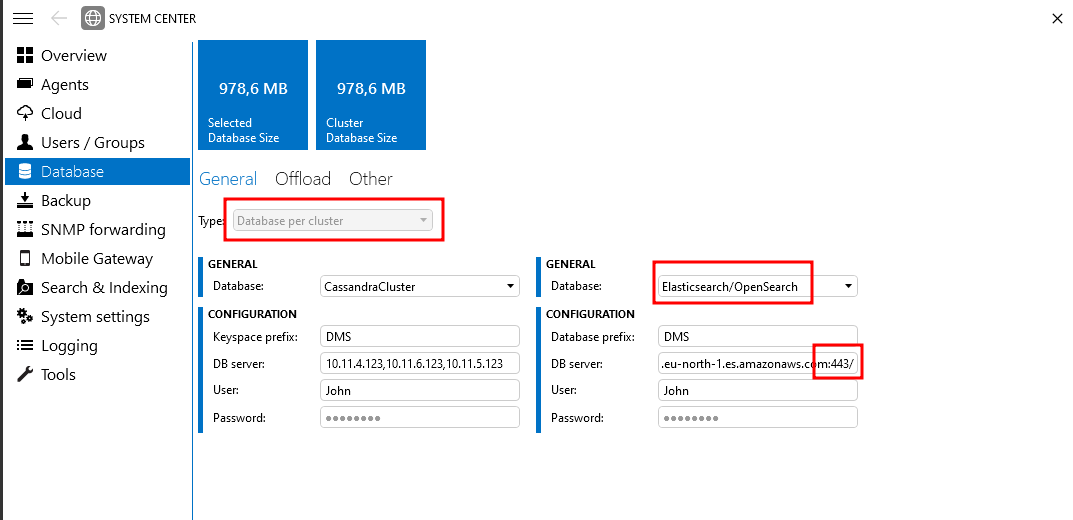
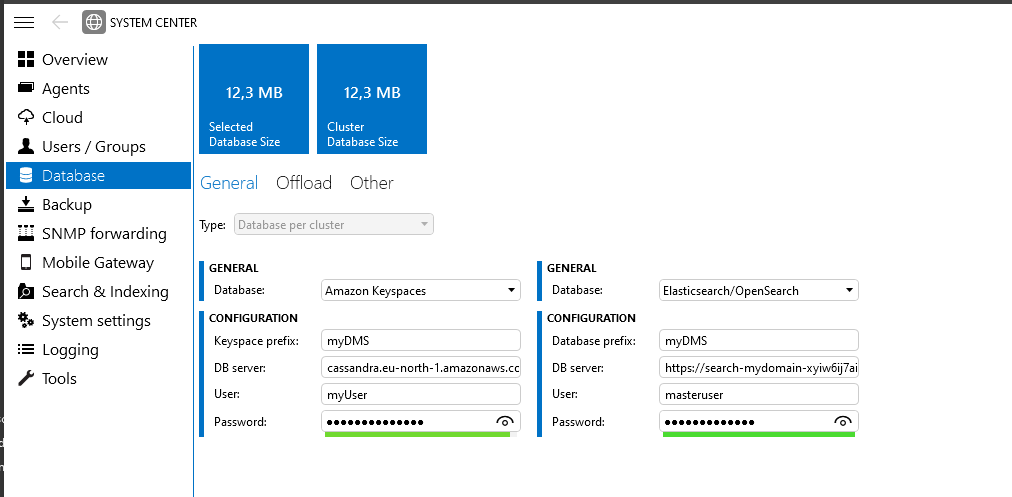
update new info from merge

Changed region(s): [[0.0, 0.0, 1.0, 0.9054]]

diff --git a/user-guide/Advanced_Functionality/Databases/Database_configuration_in_Cube/Configuring_the_database_settings_in_Cube.md b/user-guide/Advanced_Functionality/Databases/Database_configuration_in_Cube/Configuring_the_database_settings_in_Cube.md
@@ -33,7 +33,7 @@ For a Cassandra cluster database (i.e. one Cassandra cluster that is used as the
 
    - **Password**: Password with which the DMA has to log on to Cassandra.
 
-1. From DataMiner Cube 10.3 [CU0]/10.3.2 onwards, you can also specify the database settings for the Elasticsearch nodes:
+1. From DataMiner Cube 10.3 [CU0]/10.3.3 onwards, you can also specify the database settings for the Elasticsearch. Note that if the server supports [OpenSearch](xref:OpenSearch_database), Cube will also provide this option and this can be configured instead of Elastic:
 
    - **Database**: The type of database, i.e. *Elasticsearch*.
 
@@ -41,9 +41,9 @@ For a Cassandra cluster database (i.e. one Cassandra cluster that is used as the
 
    - **DB server**: The IP addresses or hostnames of the Elastic nodes, separated by commas. If TLS is enabled the full url must be specified, e.g. https://elastic.mydomain.local. If no port is provided, port 9200 is used by default.
 
-   - **User**: Username with which the DMA has to log on to Elastic.
+   - **User**: Username with which the DMA has to log in (if applicable).
 
-   - **Password**: Password with which the DMA has to log on to Elastic.
+   - **Password**: Password with which the DMA has to log in (if applicable).
 
    ![Cube Cassandra Cluster Configuration](~/user-guide/images/CassandraCluster_CubeConfig.png)
 
@@ -97,12 +97,16 @@ In case a separate Cassandra cluster is used per DMA, configure the settings as 
 
 ***
 
-## Amazon Keyspaces database
+## Amazon Keyspaces
 
 > [!IMPORTANT]
 > An Amazon Keyspaces database requires a separate indexing database.
 >
 > For information on how to configure an indexing database, see [ElasticSearch database](xref:Elasticsearch_database) or [OpenSearch database](xref:OpenSearch_database).
+
+> [!NOTE]
+> If you don't see the `Amazon Keyspaces` option, it means your server is not compatible because it is not running version 10.3.0 [CU0]/10.3.3 or higher.
+
 To configure the connection to an [Amazon Keyspaces database](xref:Amazon_Keyspaces_Service), configure the settings as follows:
 
 1. In DataMiner Cube, go to *System Center* > *Database*.
@@ -113,7 +117,7 @@ To configure the connection to an [Amazon Keyspaces database](xref:Amazon_Keyspa
 
    - **Database**: The type of database, i.e. *Amazon Keyspaces*.
 
-   - **Keyspace prefix**: The name all Amazon Keyspaces will be prefixed with. This will be identical for all DMAs in the same cluster.
+   - **Keyspace prefix**: The name all Amazon Keyspaces will be prefixed with. This will be identical for all DMAs in the DMS.
 
    - **DB Server**: The url of the [global endpoint](https://docs.aws.amazon.com/keyspaces/latest/devguide/programmatic.endpoints.html) of the region your Amazon Keyspaces cluster is in. (e.g. `cassandra.eu-north-1.amazonaws.com`).
 
@@ -123,15 +127,15 @@ To configure the connection to an [Amazon Keyspaces database](xref:Amazon_Keyspa
 
 1. Restart the DMS.
 
-   This can take multiple minutes the first time, as the keyspaces and tables will be created. In case of trouble, you can find the relevant logging in the *SLDBConnection.txt* file.
+   The first restart after configuring Amazon Keyspaces can take up to 15 minutes extra on top of the normal start up time, as the keyspaces and tables will be created. In case of trouble, you can find the relevant logging in the *SLDBConnection.txt* file.
 
 ![Cube Database Configuration](~/user-guide/images/aks_cube_config.png)<br>
-*DataMiner 10.3.2 example configuration*
+*DataMiner 10.3.3 example configuration*
 
-> [!IMPORTANT]
-> If you don't see the `Amazon Keyspaces` option, it means your server is not compatible with Amazon Keyspaces yet.
+## Amazon OpenSearch Service
 
-## Amazon OpenSearch Service database
+> [!NOTE]
+> Ensure your server version is compatible for OpenSearch. Cube will display `Elasticsearch/OpenSearch` instead of `Elasticsearch` if your server is compatible (10.3 [CU0]/10.3.3).
 
 1. In DataMiner Cube, go to *System Center* > *Database*.
 
@@ -143,14 +147,11 @@ To configure the connection to an [Amazon Keyspaces database](xref:Amazon_Keyspa
 
    - **Database prefix**: The name all indices will be prefixed with. This will be identical for all DMAs in the same cluster.
 
-   - **DB Server**: The full url of your Amazon OpenSearch Service endpoint. THe port is also required, as it is not the default 9200 but 443, for example: `https://search-mydomain-123456798.eu-north-1.es.amazonaws.com:443/`
+   - **DB Server**: The full url of your Amazon OpenSearch Service endpoint, for example: `https://search-mydomain-123456798.eu-north-1.es.amazonaws.com/`
 
-   - **User**: The username of your master user of your domain
+   - **User**: The username of your master user of your domain.
 
-   - **Password**: The password of your master user of your domain
-
-    > [!IMPORTANT]
-    > Ensure your server version is compatible for OpenSearch. Cube will display `Elasticsearch/OpenSearch` instead of `Elasticsearch` if your server is compatible.
+   - **Password**: The password of your master user of your domain.
 
    ![OpenSearch Cube Config](~/user-guide/images/Amazon_OpenSearch_CubeConfig.png)
 

diff --git a/user-guide/Advanced_Functionality/Databases/Amazon_OpenSearch_Service.md b/user-guide/Advanced_Functionality/Databases/Amazon_OpenSearch_Service.md
@@ -4,38 +4,57 @@ uid: Amazon_OpenSearch_Service
 
 # Amazon OpenSearch Service
 
-From DataMiner 10.3 [CU0]/10.3.2 onwards, it is possible to Amazon OpenSearch Service on AWS as an alternative to a on-prem hosted Elasticsearch/OpenSearch cluster.
+From DataMiner 10.3 [CU0]/10.3.3 onwards, it is possible to Amazon OpenSearch Service on AWS as an alternative to a on-prem hosted Elasticsearch/OpenSearch cluster. Note that although the service is named after OpenSearch, it offers both OpenSearch as well as Elasticsearch clusters.
 
 ## Compatibility
 
 Supported versions:
 
-- OpenSearch version 1.3.
-- OpenSearch version 2.3.
+- Elasticsearch version 6.8.
+- OpenSearch version 1.X.
+- OpenSearch version 2.X.
 
 > [!NOTE]
-> No Elasticsearch setups on Amazon OpenSearch Service are currently supported.
+> No Elasticsearch version 7.X setups on Amazon OpenSearch Service are currently supported.
 
 ## Create your Amazon OpenSearch Service domain
 
-1. Go to [AWS Management Console](https://aws.amazon.com/console/) and log in.
-1. Go to [Amazon OpenSearch Service](https://aws.amazon.com/opensearch-service/).
-1. Create your domain
+Go to [AWS Management Console](https://aws.amazon.com/console/) and log in.
+
+Go to [Amazon OpenSearch Service](https://aws.amazon.com/opensearch-service/).
+
+Create your domain
 
 ![Create Domain](~/user-guide/images/Amazon_OpenSearch_CreateDomain.png)
 
 Configure your domain with the appropriate settings.
-Make sure to select `Production` for `Deployment type`, a supported OpenSearch version and at least 3 nodes.
+
+Make sure to select `Production` for `Deployment type`, a supported version and at least 3 nodes.
+
+Choose an instance type. These are the hardware specifications of your cluster. You cannot change these later without creating a new domain. These determine the resources your cluster get and will dictate the performance of your cluster as well as the price.
+You can find the specifications and pricing for each type [here](https://aws.amazon.com/opensearch-service/pricing/).
 
 Keep `compatibility mode` disabled.
 
+![Create Domain](~/user-guide/images/Amazon_OpenSearch_DeploymentType.png)
+
+For the network, choose `Public Access`.
+
+![Create Domain](~/user-guide/images/Amazon_OpenSearch_Network.png)
+
 For access policy, choose `Only use fine-grained access control`.
 
-![Create Domain](~/user-guide/images/Amazon_OpenSearch_DeploymentType.png)
+![Create Domain](~/user-guide/images/Amazon_OpenSearch_AccessPolicy.png)
 
 In the fine-grained access control settings, choose `Create master user`.
 
-Provide a user name and password. Make sure to store this information somewhere as you are going to need it later to connect from Cube.
+![Create Domain](~/user-guide/images/Amazon_OpenSearch_MasterUser.png)
+
+Provide a user name and password. Make sure to store this information somewhere as you are going to need it later to configure the database in Cube.
+
+Under `Advanced cluster settings - optional`, put the `Max clause count` to `2147483647`.
+
+![Create Domain](~/user-guide/images/Amazon_OpenSearch_MaxClauseCount.png)
 
 New domains typically take 15–30 minutes to initialize, but can take longer depending on the configuration. After your domain initializes, select it to open its configuration pane.
 
@@ -45,7 +64,7 @@ Note the domain endpoint under General information.
 
 ## Connect your DMS to your Amazon OpenSearch Service domain
 
-To configure the connection to an Amazon OpenSearch Service database, configure the settings as detailed under [Amazon OpenSearch Service database](xref:Configuring_the_database_settings_in_Cube#amazon-opensearch-service-database)
+To configure the connection to an Amazon OpenSearch Service database, configure the settings as detailed under [Amazon OpenSearch Service](xref:Configuring_the_database_settings_in_Cube#amazon-opensearch-service)
 
 > [!IMPORTANT]
 > An Amazon OpenSearch Service database requires a separate Cassandra cluster or Amazon Keyspaces database.

diff --git a/user-guide/Advanced_Functionality/Databases/OpenSearch_database.md b/user-guide/Advanced_Functionality/Databases/OpenSearch_database.md
@@ -4,10 +4,7 @@ uid: OpenSearch_database
 
 # OpenSearch database
 
-From DataMiner 10.3 [CU0]/10.3.2 onwards, it is possible to install a dedicated OpenSearch indexing database cluster as an alternative for Elasticsearch. This indexing cluster also requires a Cassandra cluster.
-
-> [!NOTE]
-> If you are looking to use the Amazon OpenSearch Service instead of on-prem hosted OpenSearch nodes, see [Amazon OpenSearch Service](xref:Amazon_OpenSearch_Service)
+From DataMiner 10.3 [CU0]/10.3.3 onwards, it is possible to install a dedicated OpenSearch indexing database cluster as an alternative for Elasticsearch. This indexing cluster also requires a Cassandra cluster.
 
 > [!NOTE]
 > If you are looking to use the Amazon OpenSearch Service instead of on-prem hosted OpenSearch nodes, see [Amazon OpenSearch Service](xref:Amazon_OpenSearch_Service)
@@ -23,45 +20,19 @@ Supported versions:
 
 See the official [documentation](https://opensearch.org/docs/latest/) on how to set up your OpenSearch cluster. A lot of configuration is the same as for an Elasticsearch cluster.
 
+> [!IMPORTANT]
+> The JVM Heap Space must be set to a value larger than the default on production systems.
+> To configure this, see [Important settings](https://opensearch.org/docs/latest/opensearch/install/important-settings)
+
 > [!NOTE]
 > OpenSearch is only supported on Linux and not on Windows, as opposed to Elasticsearch
 
 It's also possible to set up OpenSearch Dashboards, this is the equivalent to Kibana for Elasticsearch.
 This is optional and not required for DataMiner to function.
 
-> [!IMPORTANT]
-> The JVM Heap Space must be set to a value larger than the default on production systems.
-> To configure this, see [Important settings](https://opensearch.org/docs/latest/opensearch/install/important-settings)
-
 ## Connecting your DMS to an OpenSearch cluster
 
-You can configure the connection to your OpenSearch cluster via DataMiner Cube. Head to System Center, Database and select `Database per cluster`.
+To configure the connection to an OpenSearch database, configure the settings as detailed under [Cassandra database](xref:Configuring_the_database_settings_in_Cube#cassandra-database)
 
 > [!IMPORTANT]
-> Ensure your server version is compatible for OpenSearch. Cube will display `Elasticsearch/OpenSearch` instead of `Elasticsearch` if your server is compatible.
-
-### [With TLS](#tab/tabid-1)
-
-If TLS is enabled the full url must be specified as `DB Server`, including the https.
-
-![Create Domain](~/user-guide/images/Amazon_OpenSearch_CubeConfig_OpenSearch_FQDN.png)
-
-You can add a custom port if required. Otherwise port 9200 wil be used by default.
-
-![Create Domain](~/user-guide/images/Amazon_OpenSearch_CubeConfig_OpenSearch_FQDN_and_Port.png)
-
-![Create Domain](~/user-guide/images/Amazon_OpenSearch_CubeConfig_OpenSearch_FQDN.png)
-
-### [Without TLS](#tab/tabid-2)
-
-> [!WARNING]
-> Running OpenSearch with TLS disabled is not recommended and poses security risks.
-
-OpenSearch servers without TLS enabled can be connected to with just the IP address.
-This will connect to the default port 9200. If another port is required, specify it, e.g. `10.1.2.3:12345`.
-
-![Create Domain](~/user-guide/images/Amazon_OpenSearch_CubeConfig_OpenSearch_IPs.png)
-
-If the OpenSearch nodes are not running on default ports, the port must be explicitly added.
-
-![Create Domain](~/user-guide/images/Amazon_OpenSearch_CubeConfig_OpenSearch_IPs_With_Port.png)
+> An OpenSearch database requires a separate Cassandra cluster or Amazon Keyspaces.

diff --git a/user-guide/Advanced_Functionality/Databases/Amazon_Keyspaces_Service.md b/user-guide/Advanced_Functionality/Databases/Amazon_Keyspaces_Service.md
@@ -4,10 +4,17 @@ uid: Amazon_Keyspaces_Service
 
 # Amazon Keyspaces Service
 
-From DataMiner 10.3.0 [CU0]/10.3.2 onwards, it is possible to use the Amazon Keyspaces Service on AWS. You can use this as an alternative for a Cassandra Cluster setup (see [Supported system data storage architectures](xref:Supported_system_data_storage_architectures)).
+From DataMiner 10.3.0 [CU0]/10.3.3 onwards, it is possible to use the Amazon Keyspaces Service on AWS. You can use this as an alternative for a Cassandra Cluster setup (see [Supported system data storage architectures](xref:Supported_system_data_storage_architectures)).
 
 > [!NOTE]
-> Note that Amazon Keyspaces does not support some Cassandra functionality, most notably indices on columns. This causes some queries to be possibly slower for logger tables (including SLAs) on Amazon Keyspaces compared to Cassandra.
+> Note that Amazon Keyspaces does not support all Cassandra functionality, most notably indices on columns. This causes some queries to be possibly slower for logger tables (including SLAs) on Amazon Keyspaces compared to Cassandra.
+>
+> Furthermore, the only consistency level supported is `Local Quorum`, see [docs](https://docs.aws.amazon.com/keyspaces/latest/devguide/consistency.html). This means that no matter the configuration, the consistency level will always be overwritten to `Local Quorum`.
+>
+> Finally the only supported replication strategy is the Amazon Keyspaces specific `Single-Region strategy`. These is not configurable.
+
+> [!NOTE]
+> Migration from existing databases to Amazon Keyspaces is not supported yet.
 
 ## Installing the Starfield certificate
 
@@ -41,9 +48,9 @@ For Amazon Keyspaces, the Starfield certificate must be present on the local Win
 
    ![Add Certificate](~/user-guide/images/aks_add_certificate.png)
 
-## Connecting your DMS to your Amazon Keyspaces database
+## Connecting your DMS to your Amazon Keyspaces
 
-To configure the connection to an Amazon Keyspaces database, configure the settings as detailed under [Amazon Keyspaces database](xref:Configuring_the_database_settings_in_Cube#amazon-keyspaces-database)
+To configure the connection to an Amazon Keyspaces database, configure the settings as detailed under [Amazon Keyspaces](xref:Configuring_the_database_settings_in_Cube#amazon-keyspaces)
 
 > [!IMPORTANT]
 > An Amazon Keyspaces database requires a separate indexing database.

diff --git a/user-guide/Advanced_Functionality/Databases/OpenSearch_database/Configuring_multiple_OpenSearch_clusters.md b/user-guide/Advanced_Functionality/Databases/OpenSearch_database/Configuring_multiple_OpenSearch_clusters.md
@@ -4,12 +4,12 @@ uid: Configuring_multiple_OpenSearch_clusters
 
 # Configuring multiple OpenSearch clusters
 
-From DataMiner 10.3 [CU0]/10.3.2 onwards, you can have data offloaded to multiple OpenSearch clusters, i.e. one main cluster and several replicated clusters. Data is always read from the main cluster, but data updates are sent to all clusters.
+From DataMiner 10.3 [CU0]/10.3.3 onwards, you can have data offloaded to multiple OpenSearch clusters, i.e. one main cluster and several replicated clusters. Data is always read from the main cluster, but data updates are sent to all clusters.
 
 To configure this setup:
 
 > [!NOTE]
-> For legacy and compatibility reasons with Elasticsearch, the *DBConfiguration.xml* file will have xml tags referring to Elasticsearch instead of OpenSearch such as the \<ElasticConnections\> or \<ElasticCluster\> tags. Tags such as \<OpenSearchCluster\> will not work!
+> For legacy and compatibility reasons with Elasticsearch, the *DBConfiguration.xml* file will have xml tags referring to Elasticsearch instead of OpenSearch such as the \<ElasticConnections\> or \<ElasticCluster\> tags. Tags such as \<OpenSearchCluster\> will not work.
 
 1. Create and configure a file *DBConfiguration.xml* as illustrated below. For each OpenSearch cluster, an *ElasticCluster* tag must be added with the following configuration:
 
@@ -31,18 +31,18 @@ To configure this setup:
    <DatabaseConfiguration>
     <SearchConfiguration>
     <ElasticConnections>
-    <!- Reads will be handled by the ElasticCluster with the lowest priorityOrder -->
+    <!-- Reads will be handled by the ElasticCluster with the lowest priorityOrder -->
     <ElasticCluster priorityOrder="0">
     <Hosts>localhost</Hosts>
     <Username />
     <Password>root</Password>
-   <!-
+   <!--
     Prefix corresponds with the DB tag in DB.xml.
     The content of the Prefix tag gets prefixed to the names
    of the aliases and indices created by DataMiner.
     -->
     <Prefix>dms</Prefix>
-    <!-
+    <!--
     Used by file offload (i.e. when the connection with the Elastic cluster is not
     available) for tagging the offloaded data with.
    Should be different for each defined Elastic cluster connection.

diff --git a/user-guide/Advanced_Functionality/Databases/Supported_System_Data_Storage_Architectures.md b/user-guide/Advanced_Functionality/Databases/Supported_System_Data_Storage_Architectures.md
@@ -20,7 +20,7 @@ The **recommended** DataMiner setup involves **one Cassandra cluster and one Ela
 > For information on how to implement this setup based on an existing DataMiner setup with SQL or Cassandra databases per DMA, see [Migrating the general database to a DMS Cassandra cluster](xref:Migrating_the_general_database_to_a_DMS_Cassandra_cluster)
 
 > [!IMPORTANT]
-> From DataMiner 10.3.0 [CU0]/10.3.2 onwards, instead of a Cassandra cluster, you can use the [Amazon Keyspaces Service on AWS](xref:Amazon_Keyspaces_Service) and instead of an Elasticsearch cluster, you can use an on-prem [OpenSearch cluster](xref:OpenSearch_database) or the [Amazon OpenSearch Service on AWS](xref:Amazon_OpenSearch_Service)
+> From DataMiner 10.3.0 [CU0]/10.3.3 onwards, instead of a Cassandra cluster, you can use the [Amazon Keyspaces Service on AWS](xref:Amazon_Keyspaces_Service) and instead of an  on-prem Elasticsearch cluster, you can use an on-prem [OpenSearch cluster](xref:OpenSearch_database) or the [Amazon OpenSearch Service on AWS](xref:Amazon_OpenSearch_Service) (which offers both Elasticsearch as well as OpenSearch).
 
 ### Single DMA setups
 

diff --git a/user-guide/Advanced_Functionality/Databases/Databases.md b/user-guide/Advanced_Functionality/Databases/Databases.md
@@ -14,7 +14,7 @@ This section consists of the following topics:
 
 - [Elasticsearch database](xref:Elasticsearch_database)
 
-- [Amazon Keyspaces database](xref:Amazon_Keyspaces_Service)
+- [Amazon Keyspaces Service](xref:Amazon_Keyspaces_Service)
 
 - [OpenSearch database](xref:OpenSearch_database)
 
